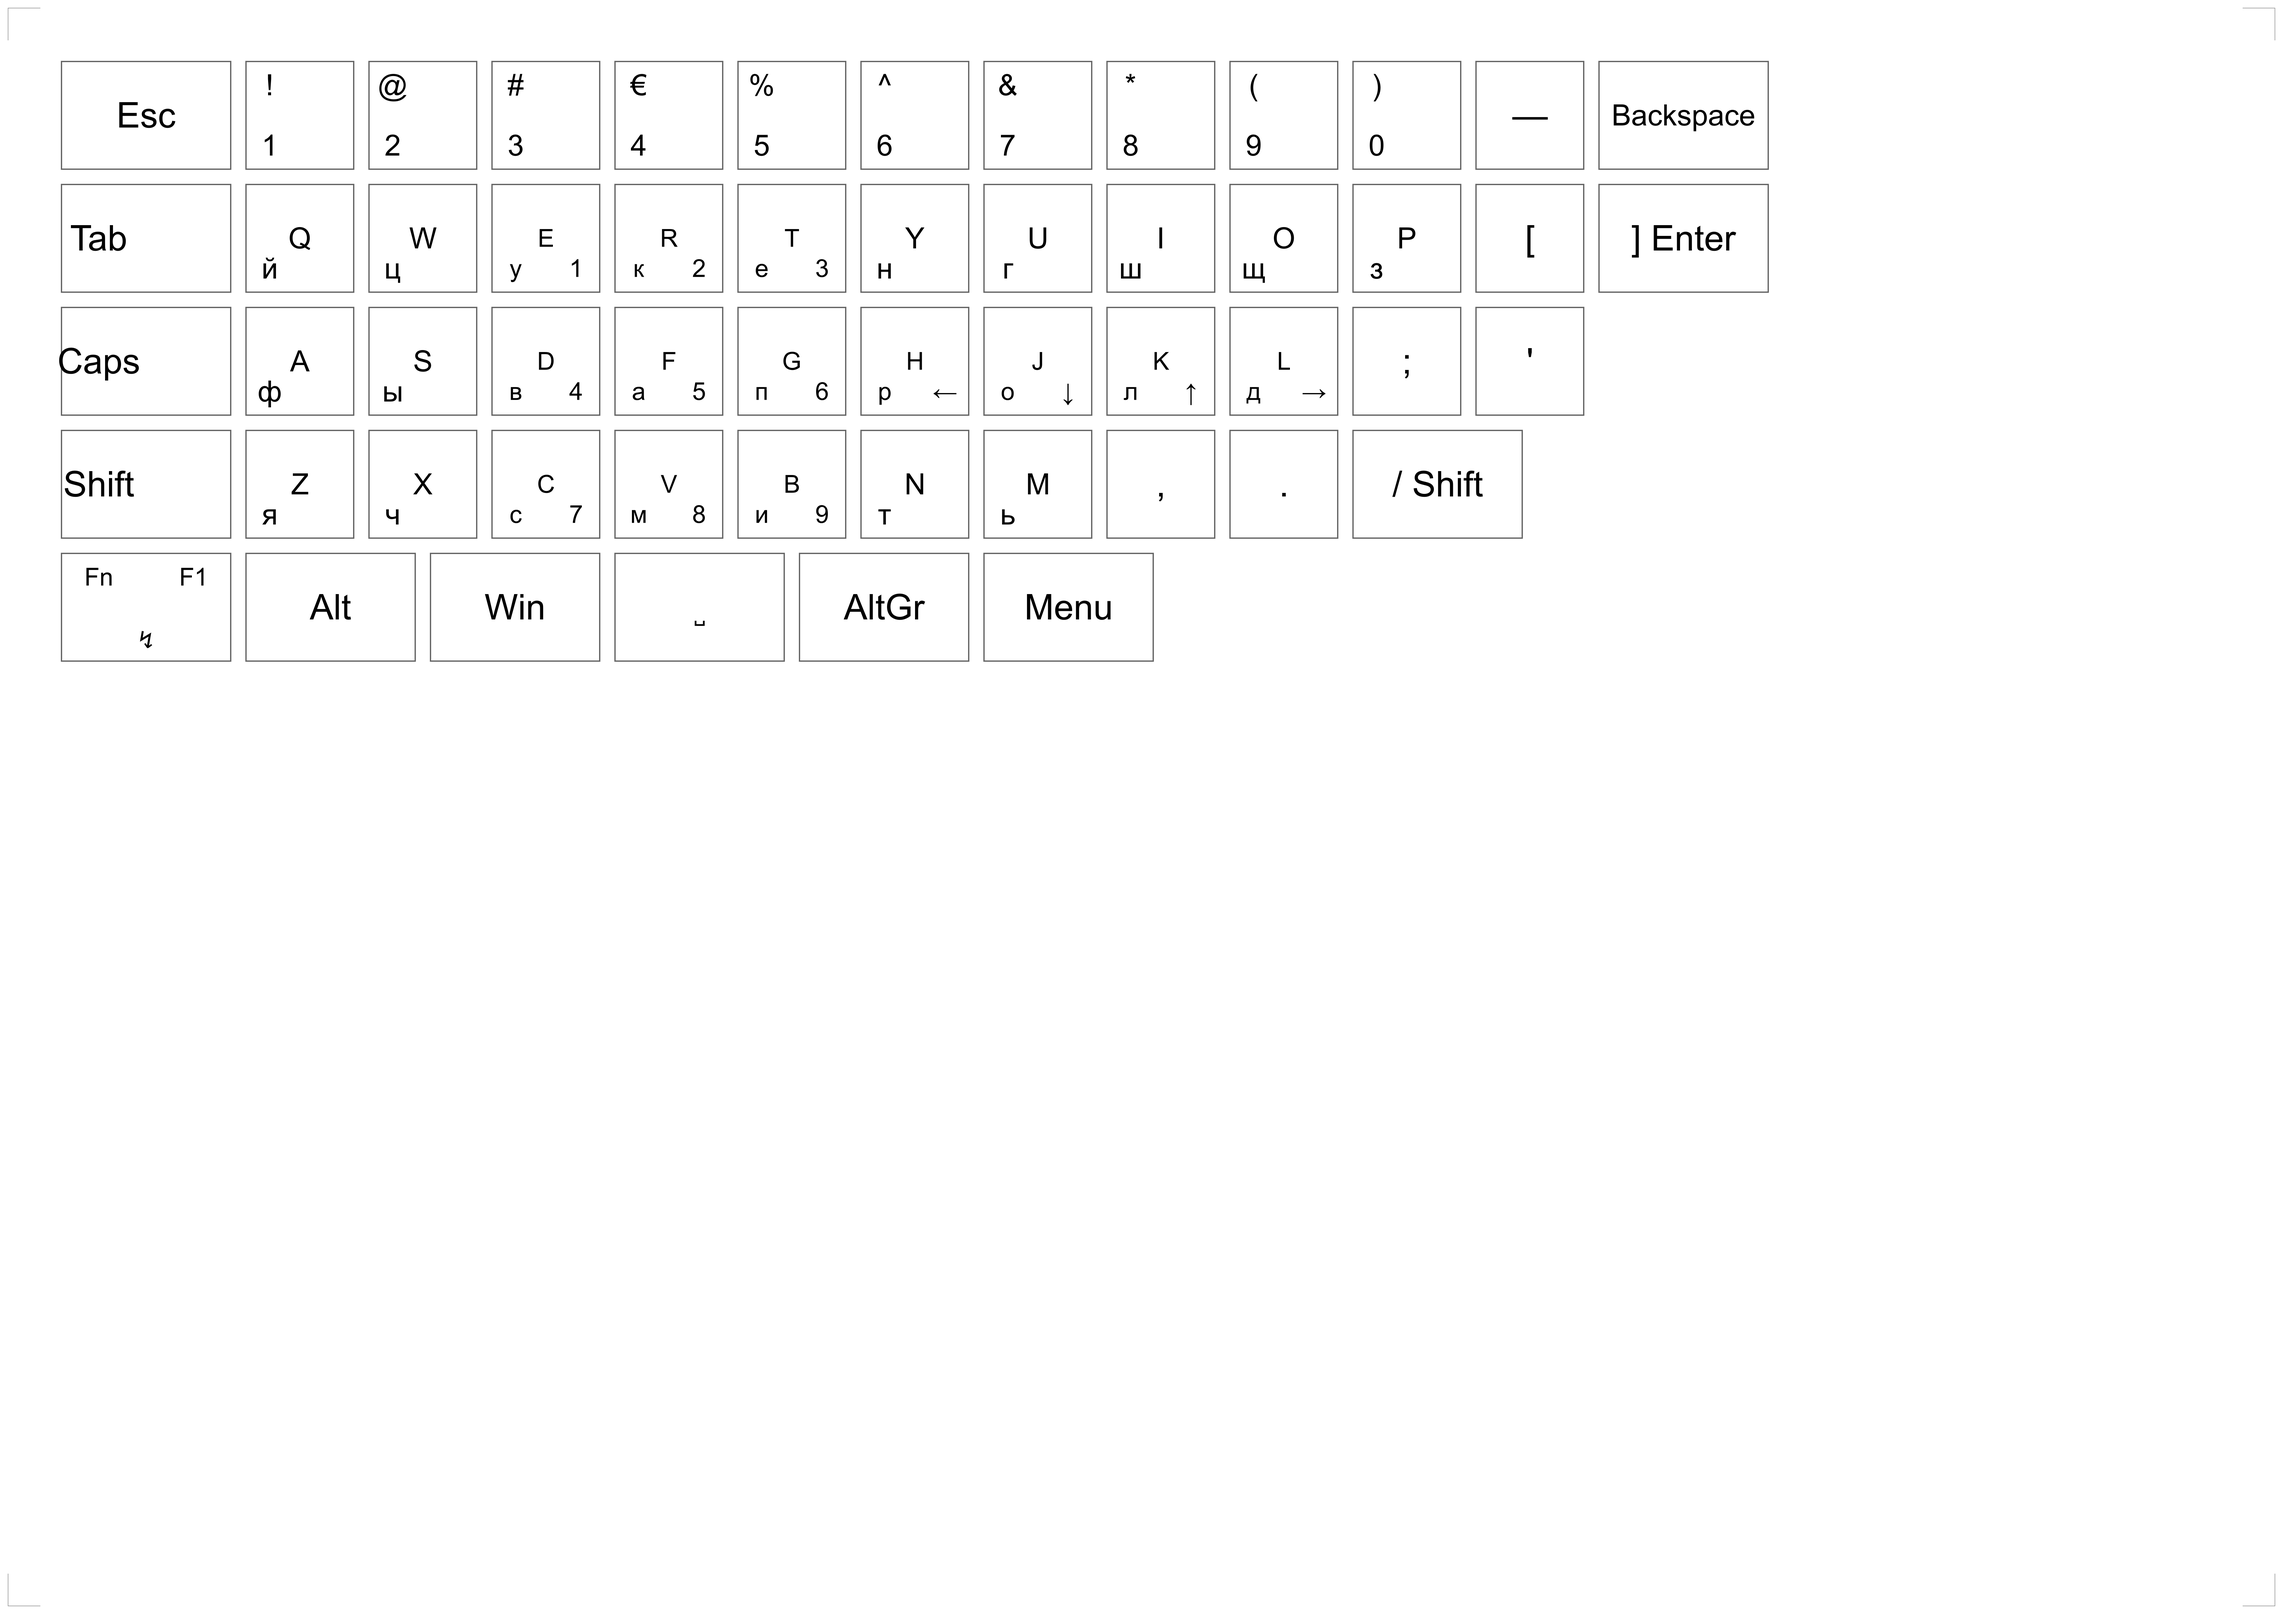
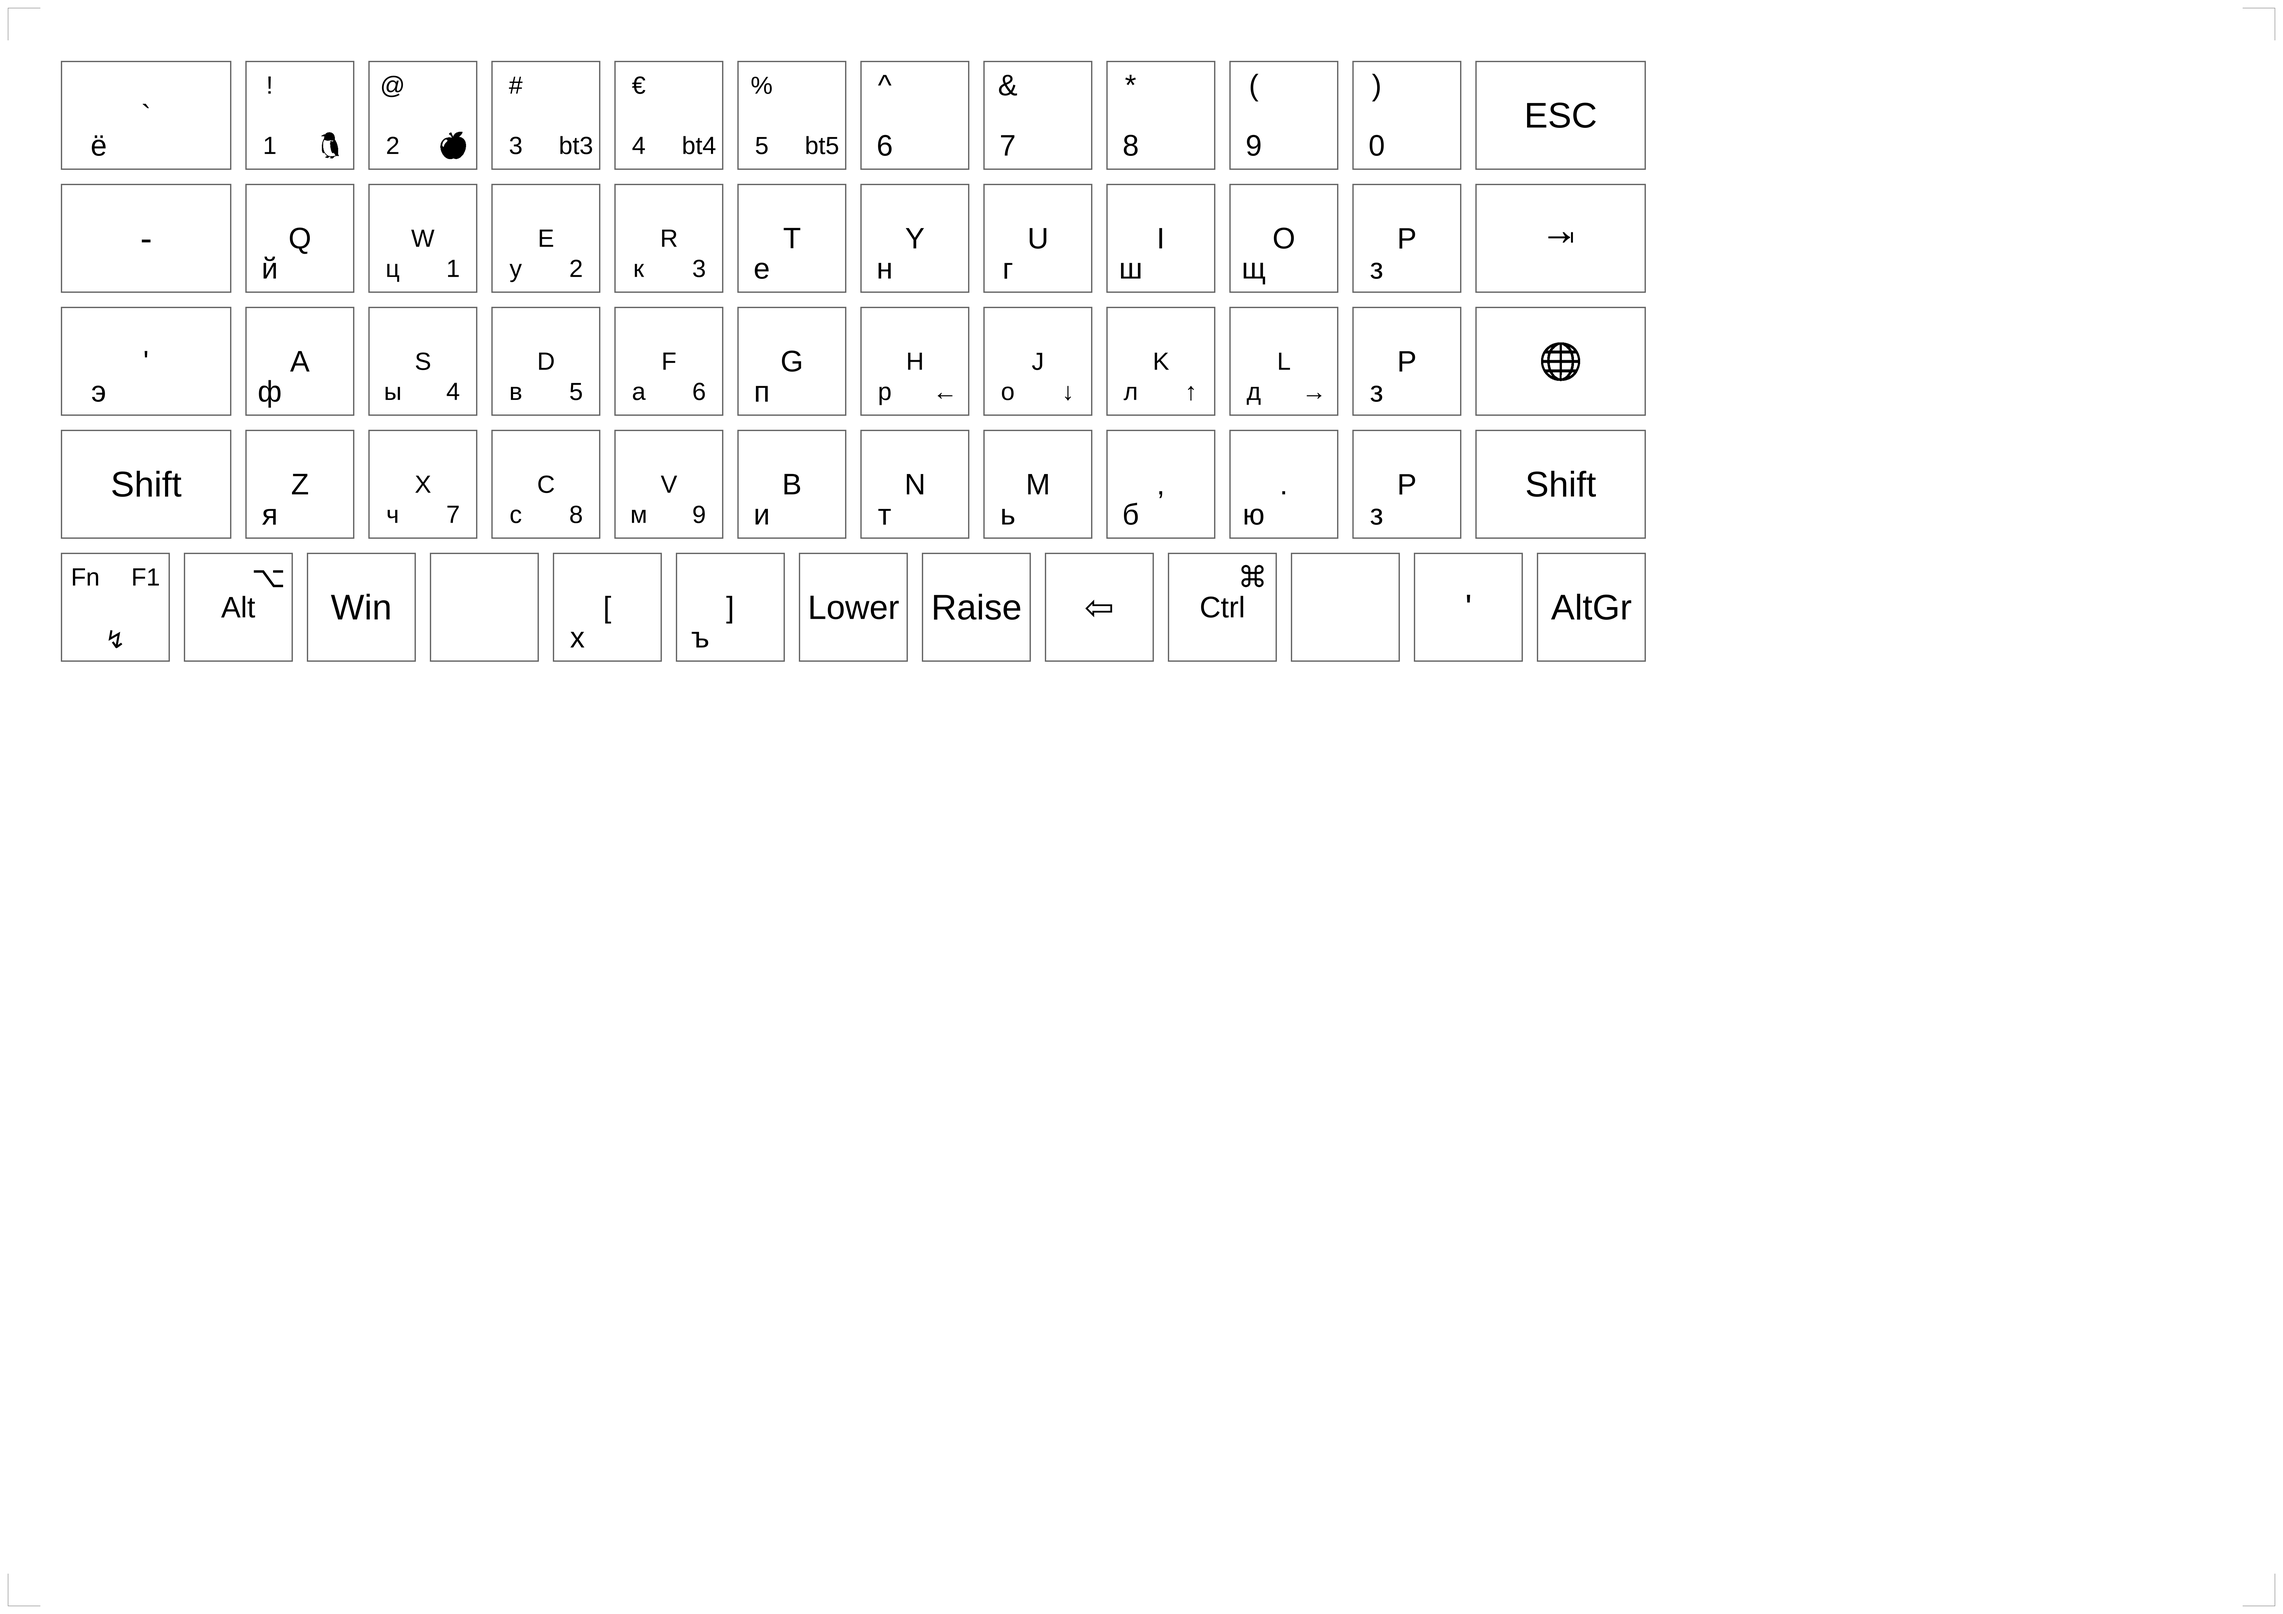
update keys

diff --git a/legends/index.js b/legends/index.js
@@ -45,73 +45,79 @@ const POS = {
 const LAYOUT = [
     // Ряд 1 — добавим несколько 1.5u: Esc, Backspace
     [
-        { u: 1.5, legends: ["Esc"], positions: ["center"] },
-        { legends: ["1", "!"], positions: ["bottomLeft", "topLeft"] },
-        { legends: ["2", "@"], positions: ["bottomLeft", "topLeft"] },
-        { legends: ["3", "#"], positions: ["bottomLeft", "topLeft"] },
-        { legends: ["4", "€"], positions: ["bottomLeft", "topLeft"] },
-        { legends: ["5", "%"], positions: ["bottomLeft", "topLeft"] },
+        { u: 1.5, legends: ["`","ё"], positions: ["center","bottomLeft"] },
+        { legends: ["1", "!", "🐧"], positions: ["bottomLeft", "topLeft", "bottomRight"] },
+        { legends: ["2", "@", "🍎"], positions: ["bottomLeft", "topLeft", "bottomRight"] },
+        { legends: ["3", "#", "bt3"], positions: ["bottomLeft", "topLeft", "bottomRight"] },
+        { legends: ["4", "€", "bt4"], positions: ["bottomLeft", "topLeft", "bottomRight"] },
+        { legends: ["5", "%", "bt5"], positions: ["bottomLeft", "topLeft", "bottomRight"] },
         { legends: ["6", "^"], positions: ["bottomLeft", "topLeft"] },
         { legends: ["7", "&"], positions: ["bottomLeft", "topLeft"] },
         { legends: ["8", "*"], positions: ["bottomLeft", "topLeft"] },
         { legends: ["9", "("], positions: ["bottomLeft", "topLeft"] },
         { legends: ["0", ")"], positions: ["bottomLeft", "topLeft"] },
-        { legends: ["—"], positions: ["center"] },
-        { u: 1.5, legends: ["Backspace"], positions: ["center"] },
+        { u: 1.5, legends: ["ESC"], positions: ["center"] },
     ],
     // Ряд 2 — Tab 1.5u, Enter 1.5u
     [
-        { u: 1.5, legends: ["Tab"], positions: ["leftCenter"] },
+        { u: 1.5, legends: ["-"], positions: ["center"] },
         { legends: ["Q","й"], positions: ["center","bottomLeft"] },
-        { legends: ["W","ц"], positions: ["center","bottomLeft"] },
-        { legends: ["E","1","у"], positions: ["center","bottomRight","bottomLeft"] },
-        { legends: ["R","2","к"], positions: ["center","bottomRight","bottomLeft"] },
-        { legends: ["T","3","е"], positions: ["center","bottomRight","bottomLeft"] },
+        { legends: ["W","1","ц"], positions: ["center","bottomRight","bottomLeft"] },
+        { legends: ["E","2","у"], positions: ["center","bottomRight","bottomLeft"] },
+        { legends: ["R","3","к"], positions: ["center","bottomRight","bottomLeft"] },
+        { legends: ["T","е"], positions: ["center","bottomLeft"] },
         { legends: ["Y","н"], positions: ["center","bottomLeft"] },
         { legends: ["U","г"], positions: ["center","bottomLeft"] },
         { legends: ["I","ш"], positions: ["center","bottomLeft"] },
         { legends: ["O","щ"], positions: ["center","bottomLeft"] },
         { legends: ["P","з"], positions: ["center","bottomLeft"] },
-        { legends: ["["], positions: ["center"] },
-        { u: 1.5, legends: ["] Enter"], positions: ["center"] },
+        { u: 1.5, legends: ["⇥"], positions: ["center"] },
     ],
     // Ряд 3 — Caps 1.5u, два 1.5u посередине
     [
-        { u: 1.5, legends: ["Caps"], positions: ["leftCenter"] },
+        { u: 1.5, legends: ["'","э"], positions: ["center","bottomLeft"] },
         { legends: ["A","ф"], positions: ["center","bottomLeft"] },
-        { legends: ["S","ы"], positions: ["center","bottomLeft"] },
-        { legends: ["D","4","в"], positions: ["center","bottomRight","bottomLeft"] },
-        { legends: ["F","5","а"], positions: ["center","bottomRight","bottomLeft"] }, // примеры 1.5u
-        { legends: ["G","6","п"], positions: ["center","bottomRight","bottomLeft"] },
+        { legends: ["S","4","ы"], positions: ["center","bottomRight","bottomLeft"] },
+        { legends: ["D","5","в"], positions: ["center","bottomRight","bottomLeft"] },
+        { legends: ["F","6","а"], positions: ["center","bottomRight","bottomLeft"] }, // примеры 1.5u
+        { legends: ["G","п"], positions: ["center","bottomLeft"] },
         { legends: ["H","←","р"], positions: ["center","bottomRight","bottomLeft"] },
         { legends: ["J","↓","о"], positions: ["center","bottomRight","bottomLeft"] },
         { legends: ["K","↑","л"], positions: ["center","bottomRight","bottomLeft"] },
         { legends: ["L","→","д"], positions: ["center","bottomRight","bottomLeft"] },
-        { legends: [";"], positions: ["center"] },
-        { legends: ["'"], positions: ["center"] },
+        { legends: ["P","з"], positions: ["center","bottomLeft"] },
+        { u: 1.5,legends: ["🌐"], positions: ["center"] },
     ],
     // Ряд 4 — Shift 1.5u слева и справа
     [
-        { u: 1.5, legends: ["Shift"], positions: ["leftCenter"] },
+        { u: 1.5, legends: ["Shift"], positions: ["center"] },
         { legends: ["Z","я"], positions: ["center","bottomLeft"] },
-        { legends: ["X","ч"], positions: ["center","bottomLeft"] },
-        { legends: ["C","7","с"], positions: ["center","bottomRight","bottomLeft"] },
-        { legends: ["V","8","м"], positions: ["center","bottomRight","bottomLeft"] },
-        { legends: ["B","9","и"], positions: ["center","bottomRight","bottomLeft"] },
+        { legends: ["X","7","ч"], positions: ["center","bottomRight","bottomLeft"] },
+        { legends: ["C","8","с"], positions: ["center","bottomRight","bottomLeft"] },
+        { legends: ["V","9","м"], positions: ["center","bottomRight","bottomLeft"] },
+        { legends: ["B","и"], positions: ["center","bottomLeft"] },
         { legends: ["N","т"], positions: ["center","bottomLeft"] },
         { legends: ["M","ь"], positions: ["center","bottomLeft"] },
-        { legends: [","], positions: ["center"] },
-        { legends: ["."], positions: ["center"] },
-        { u: 1.5, legends: ["/ Shift"], positions: ["center"] },
+        { legends: [",","б"], positions: ["center","bottomLeft"] },
+        { legends: [".","ю"], positions: ["center","bottomLeft"] },
+        { legends: ["P","з"], positions: ["center","bottomLeft"] },
+        { u: 1.5, legends: ["Shift"], positions: ["center"] },
     ],
     // Ряд 5 — Alt, Win, Space 1.5u, AltGr 1.5u, Menu 1.5u — добьём до ~10 штук 1.5u
     [
-        { u: 1.5, legends: ["Fn", "F1", "↯"], positions: ["topLeft", "topRight", "bottomCenter"] },
-        { u: 1.5, legends: ["Alt"], positions: ["center"] },
-        { u: 1.5, legends: ["Win"], positions: ["center"] },
-        { u: 1.5, legends: ["␣"], positions: ["center"] },
-        { u: 1.5, legends: ["AltGr"], positions: ["center"] },
-        { u: 1.5, legends: ["Menu"], positions: ["center"] },
+        { u: 1, legends: ["Fn", "F1", "↯"], positions: ["topLeft", "topRight", "bottomCenter"] },
+        { u: 1, legends: ["Alt","⌥"], positions: ["center","topRight"] },
+        { u: 1, legends: ["Win"], positions: ["center"] },
+        { u: 1, legends: [" "], positions: ["center"] },
+        { u: 1, legends: ["[","х"], positions: ["center","bottomLeft"] },
+        { u: 1, legends: ["]","ъ"], positions: ["center","bottomLeft"] },
+        { u: 1, legends: ["Lower"], positions: ["center"] },
+        { u: 1, legends: ["Raise"], positions: ["center"] },
+        { u: 1, legends: ["⇦"], positions: ["center"] },
+        { u: 1, legends: ["Ctrl","⌘"], positions: ["center","topRight"] },
+        { u: 1, legends: [" "], positions: ["center"] },
+        { u: 1, legends: ["'"], positions: ["center"] },
+        { u: 1, legends: ["AltGr"], positions: ["center"] },
     ],
 ];
 
